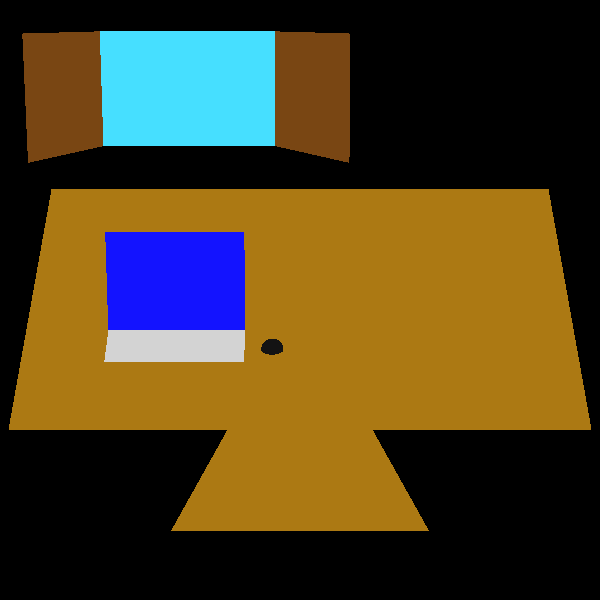
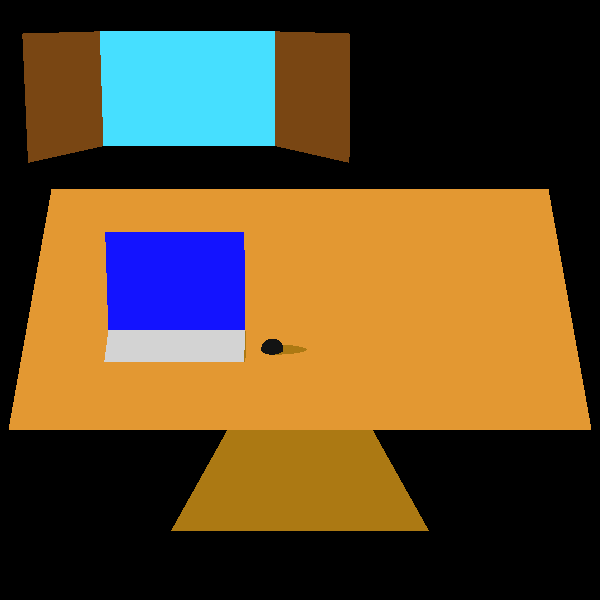
exercise 7 picture- added .setMaterial to the table- for light

diff --git a/tests/elements/Exercise7.java b/tests/elements/Exercise7.java
@@ -27,10 +27,11 @@ public class Exercise7 {
         scene.geometries.add(
                 //desk
                 new Polygon(new Point3D(-100, -100, 0), new Point3D(-100, 100, 0), new Point3D(100, 100, 0), new Point3D(100, -100, 0))
-                        .setEmission(new Color(153, 102, 0)),
-                new Triangle(new Point3D(0,0,0),new Point3D(-50,0,-100),new Point3D(50,0,-100)).setEmission(new Color(102, 51, 0)),
-                new Triangle(new Point3D(0,0,0),new Point3D(0,50,-100),new Point3D(0,-50,-100)).setEmission(new Color(102, 51, 0)),
-
+                        .setEmission(new Color(153, 102, 0)).setMaterial(new Material().setKd(0.5).setKs(0.5).setShininess(30)),
+                new Triangle(new Point3D(0,0,0),new Point3D(-50,0,-100),new Point3D(50,0,-100))
+                        .setEmission(new Color(102, 51, 0)).setMaterial(new Material().setKd(0.5).setKs(0.5).setShininess(30)),
+                new Triangle(new Point3D(0,0,0),new Point3D(0,50,-100),new Point3D(0,-50,-100))
+                        .setEmission(new Color(200, 51, 0)).setMaterial(new Material().setKd(0.5).setKs(0.5).setShininess(30)),
 
                 //computer
                 new Polygon(new Point3D(25, -70, 0.25), new Point3D(25, -20, 0.25), new Point3D(50, -20, 0.25), new Point3D(50, -70, 0.25))
@@ -49,7 +50,7 @@ public class Exercise7 {
                         .setEmission(new Color(102, 51, 0))
         );
         scene.lights.add( //
-                new DirectionalLight(new Color(350, 200, 200), new Vector(0, 0, -1)));
+                new DirectionalLight(new Color(350, 200, 200), new Vector(0, 3, -1)));
 
         Render render = new Render() //
                 .setImageWriter(new ImageWriter("exercise7", 600, 600)) //

diff --git a/tests/elements/IntegrationTest.java b/tests/elements/IntegrationTest.java
@@ -4,6 +4,7 @@ import geometries.Intersectable;
 import geometries.*;
 import org.junit.jupiter.api.Test;
 import primitives.*;
+
 import static org.junit.jupiter.api.Assertions.*;
 
 public class IntegrationTest {
